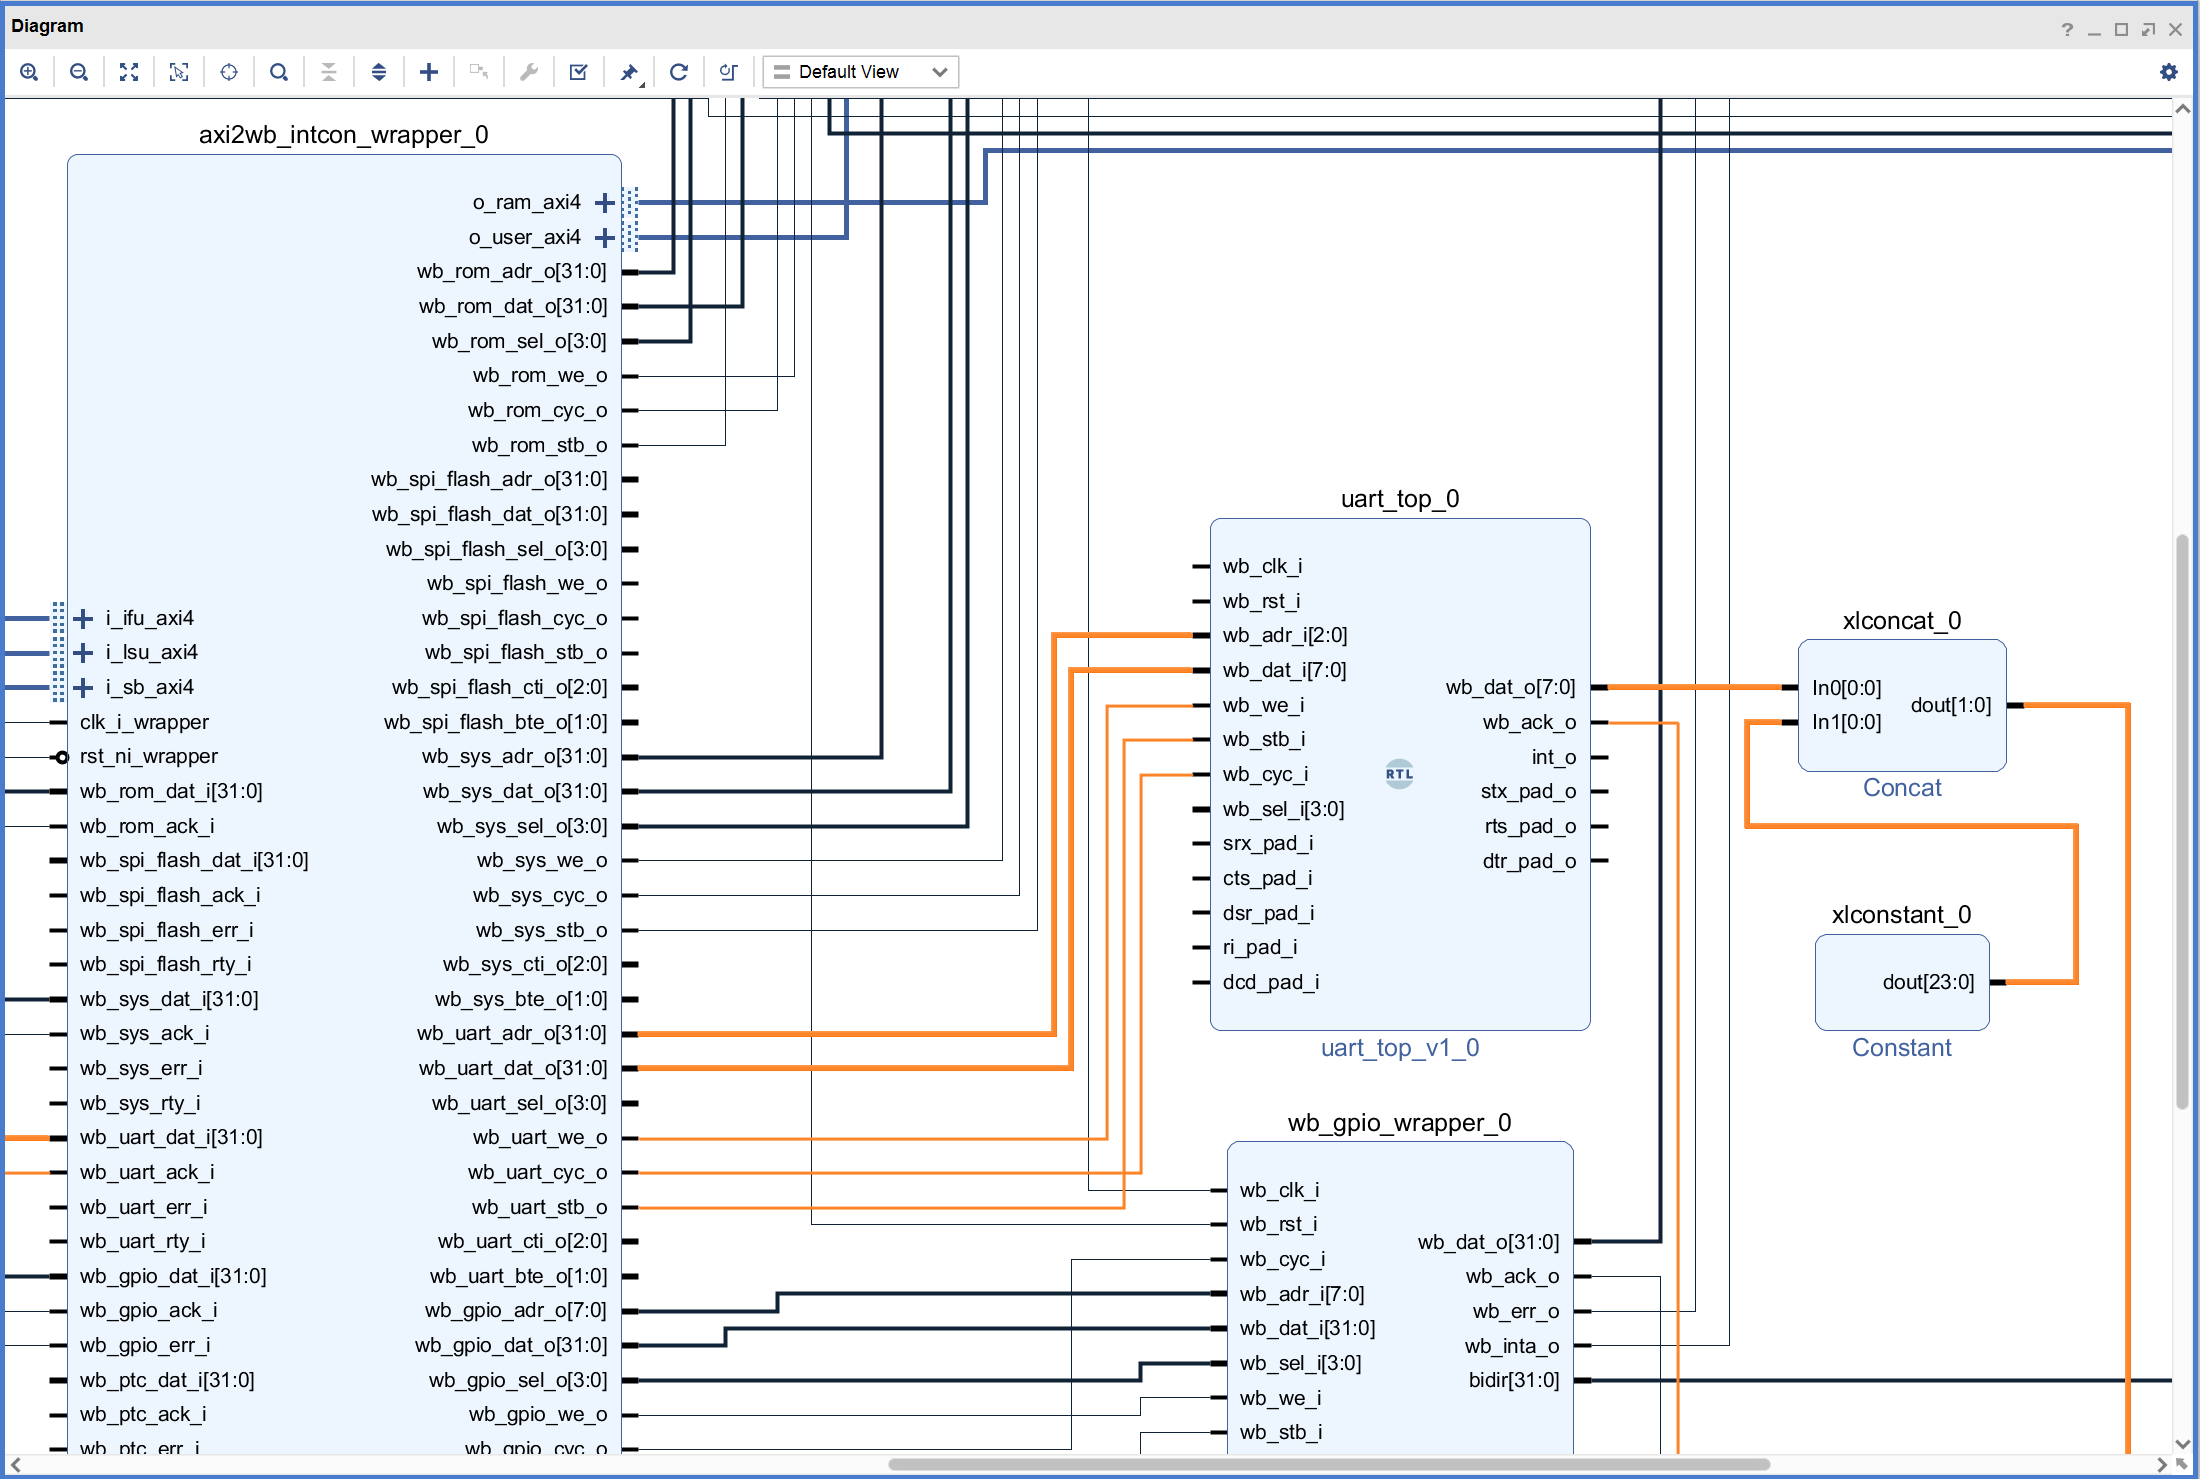
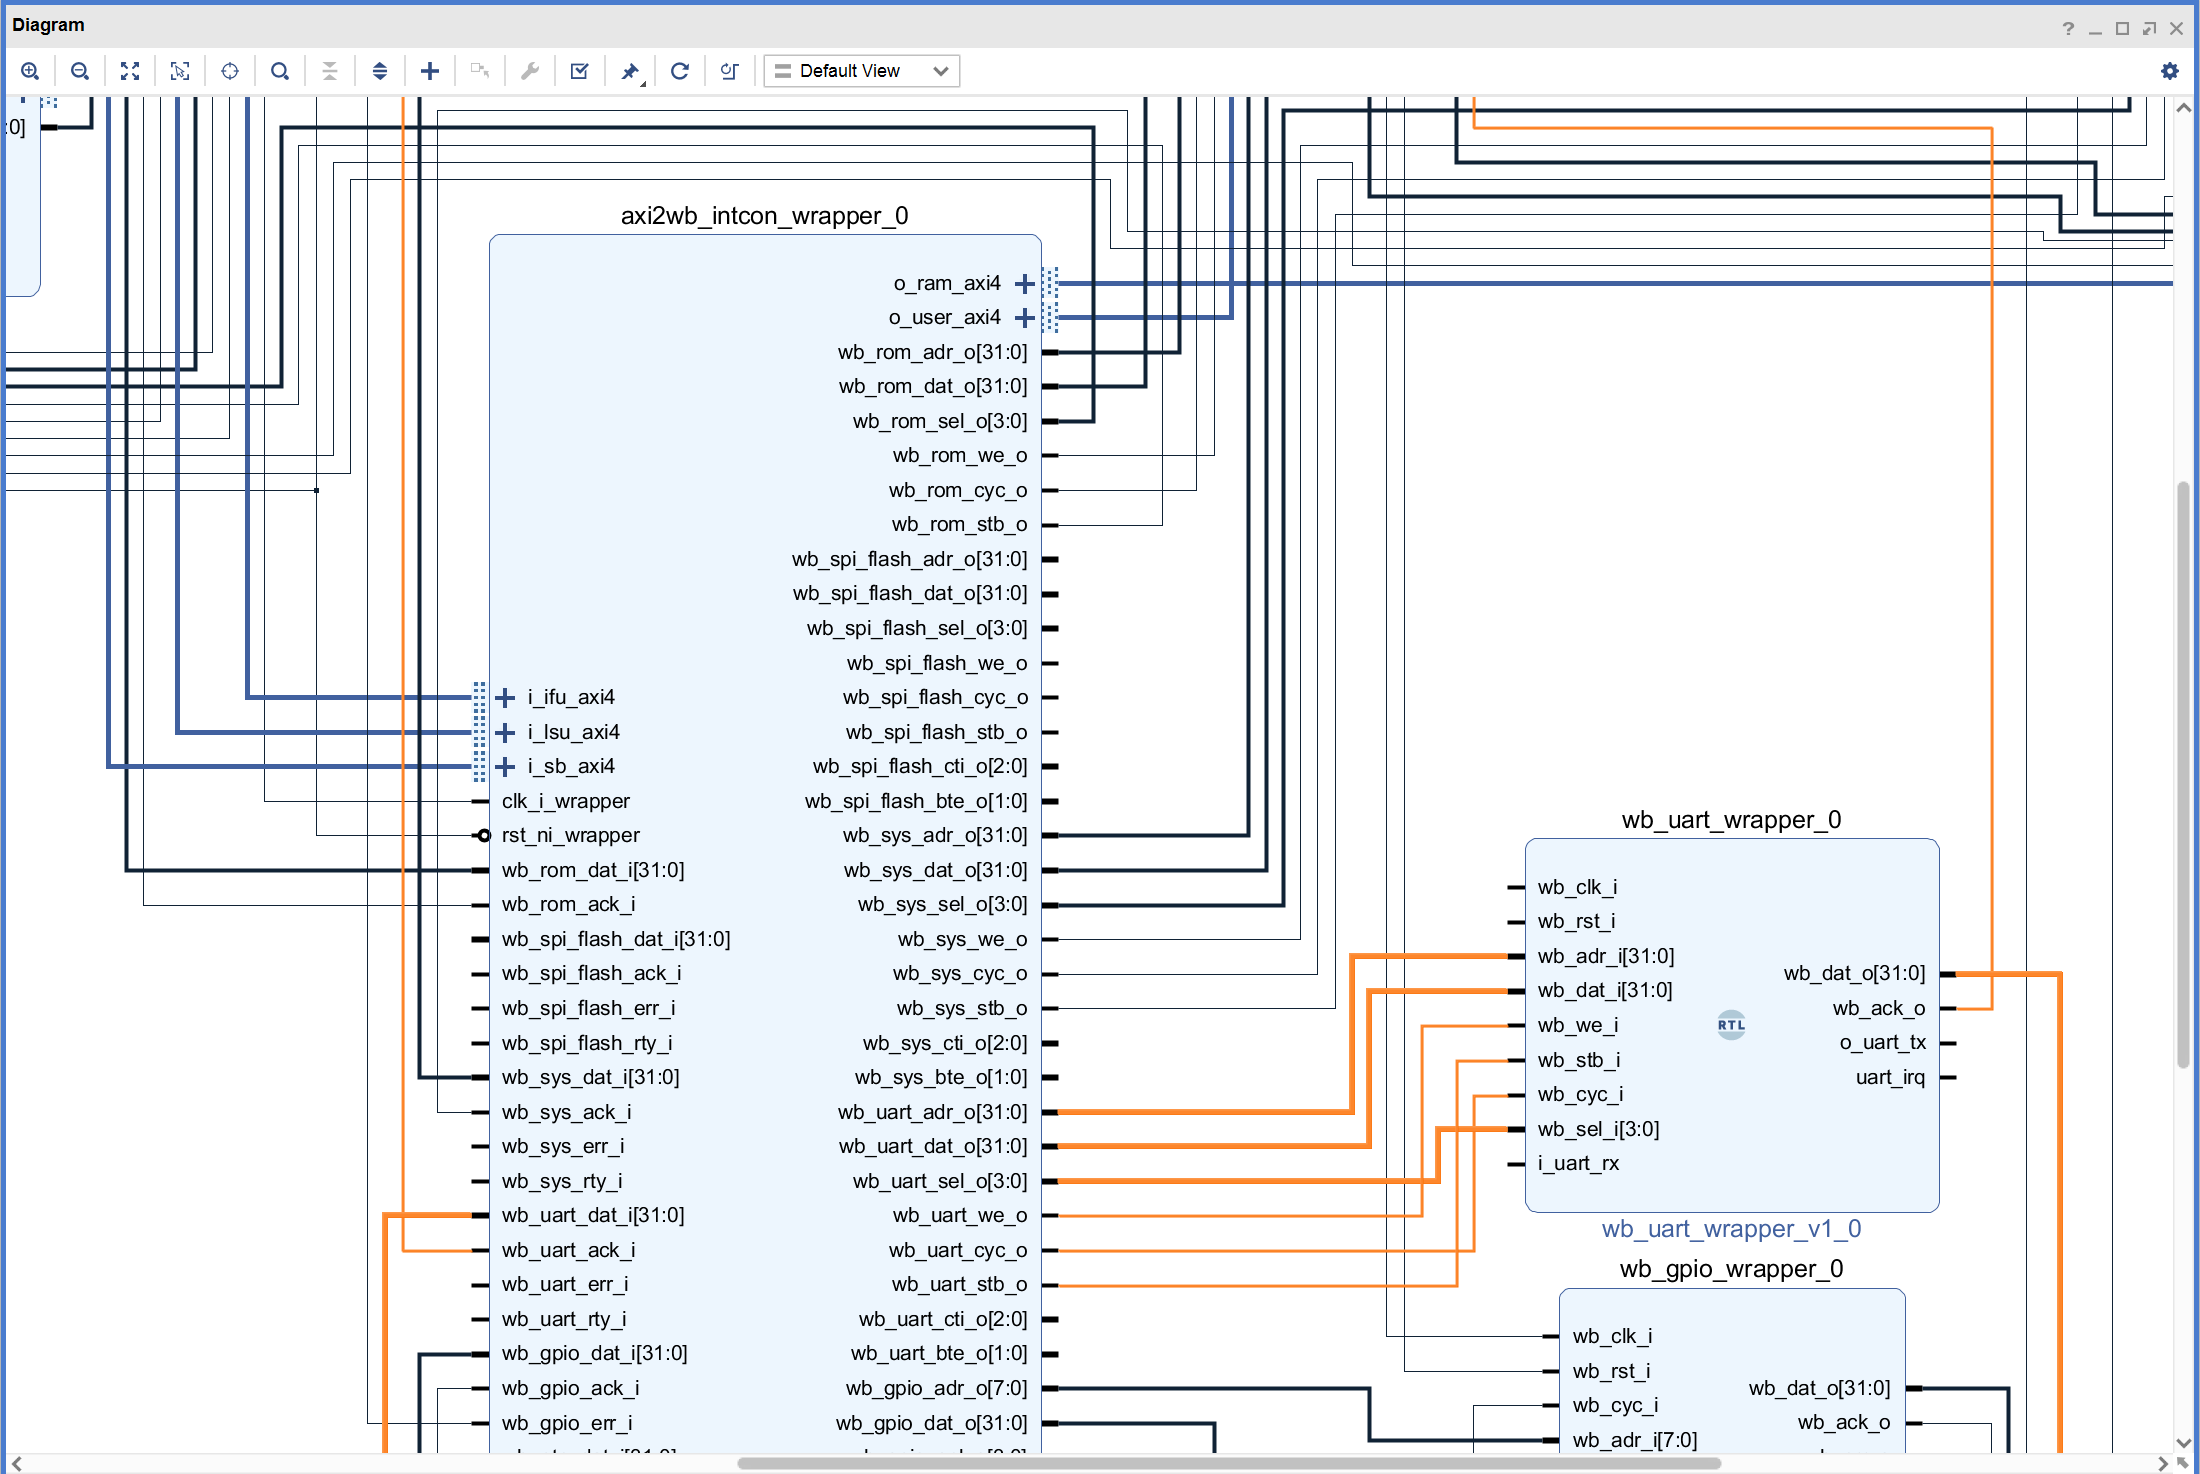
update README.md.

diff --git a/README.md b/README.md
@@ -14,19 +14,15 @@
 
 点击“Open Block Design”打开块设计，如下图所示，通过“Add Module”将wb_uart_wrapper模块添加到块设计。
 
-![输入图片说明](image_2022010703.png)
+![添加wb_uart_wrapper模块](image_2022010703.png)
 
-将刚刚添加的uart_top_0模块连接到块设计，连接完成后如下图所示。
+将刚刚添加的wb_uart_wrapper_0模块连接到块设计，连接完成后如下图所示。
 
-注：由于uart_top_0模块wb_dat_o输出引脚是7位，而互连的输入引脚是32位，为了配置需要添加24位的“0”。
+![完成模块连接](image_2022010704.png)
 
-![完成连线](image_2022010704.png)
+然后，连接wb_uart_wrapper_0模块的时钟和复位引脚。
 
-然后，连接uart_top_0模块的时钟和复位引脚，复位引脚要取反后连接，因此需要先添加一个非门IP，如下图所示。
-
-![连接时钟和复位引脚](image_2022010710.png)
-
-最后，将uart_top_0模块的stx_pad_o和stx_pad_i引脚设置为外部引脚，并将stx_pad_o的输出引脚更名为“o_uart_tx”、stx_pad_i的输入引脚更名为“i_uart_rx”。
+最后，将uart_top_0模块的i_uart_rx和o_uart_tx引脚设置为外部引脚。
 
 点击Validate Design，对设计的正确性进行校验。校验过程中如果出现警告，点击OK忽略。
 
